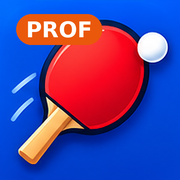
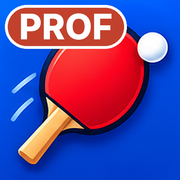
Icônes tennis de table : badge ÉLÈVE / PROF plus grand et en couleur, comme le demi-fond
Claude-Session: https://claude.ai/code/session_01UuASiQCvSrQnQNuK24r3AJ

Changed region(s): [[0.0, 0.0, 0.7222, 0.2778]]

diff --git a/sw.js b/sw.js
@@ -1,6 +1,6 @@
 /* Hors ligne : l'outil est gardé sur l'iPad après la 1re ouverture avec internet.
    Après une modification, augmenter VERSION (ex. ttp-v3 → ttp-v3). */
-const VERSION='ttp-v8';
+const VERSION='ttp-v9';
 const FICHIERS=['./','index.html','prof.js','prof-plus.js','prof-demo.js','prof-poules.js','prof-cycle.js','donnees.js','logique.js','scan.js','jsqr.js','jszip.js','xlsx.js','qrcode.js','manifest.webmanifest',
   'icon-32.png','icon-180.png','icon-192.png','icon-512.png','polices/archivo.woff2','polices/atkinson-400.woff2','polices/atkinson-700.woff2'];
 self.addEventListener('install',e=>{e.waitUntil(caches.open(VERSION).then(c=>c.addAll(FICHIERS)).then(()=>self.skipWaiting()))});
